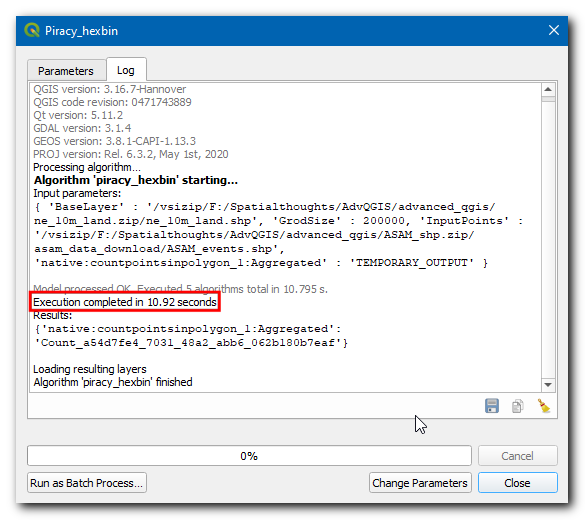
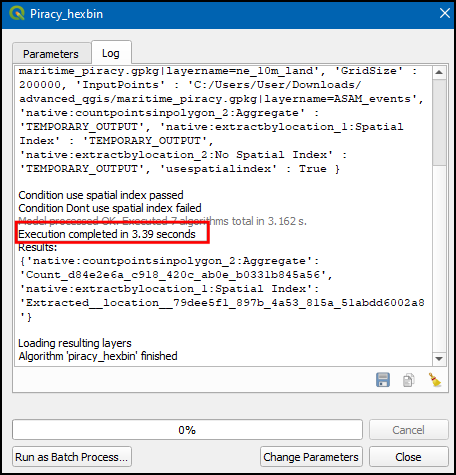
fix typos

diff --git a/docs/advanced-qgis.html b/docs/advanced-qgis.html
@@ -690,40 +690,42 @@ $(document).ready(function () {
 <p><a href="https://docs.google.com/presentation/d/1K1lR1JfonxGbmj8rCIVln_WkbWv6-tOYTYHAEJKAiw4/edit?usp=sharing" target="_blank"><img src="images/advanced_qgis/spatial_indexing.png" width="400" alt="View Presentation" /></a></p>
 <p><a href="https://docs.google.com/presentation/d/1K1lR1JfonxGbmj8rCIVln_WkbWv6-tOYTYHAEJKAiw4/edit?usp=sharing" target="_blank">View the Presentation</a></p>
 <p>QGIS has built-in tools to create and use spatial indexes. Let’s see how we can create a spatial index for a layer and use it in our model.</p>
-<p>1.Double click on the <code>piracy_hexbin</code> model from <em>Processing Toolbox</em>, select <strong>ne_10m_land</strong> as <em>Base Layer</em>, <strong>200000</strong> as <em>Grid size</em> and <strong>ASAM_events</strong> as <em>Inputs Points</em>. Click Run.</p>
-<p><img src="images/advanced_qgis/index1.png" width="75%" style="display: block; margin: auto;" /></p>
-<ol start="2" style="list-style-type: decimal">
-<li>Switch to <em>Log</em>, and note down the execution time of the model. In this instance we got <em>48.504s</em> (The exact time will vary depending on your computer configuration). Also note that it prompts a warning <em>No spatial index exists for input layer, performance will be severely degraded</em>.</li>
+<ol style="list-style-type: decimal">
+<li>Double click on the <code>piracy_hexbin</code> model from <em>Processing Toolbox</em>, select <strong>ne_10m_land</strong> as <em>Base Layer</em>, <strong>200000</strong> as <em>Grid size</em> and <strong>ASAM_events</strong> as <em>Inputs Points</em>. Click Run.</li>
 </ol>
-<p><img src="images/advanced_qgis/index2.png" width="75%" style="display: block; margin: auto;" /></p>
+<p><img src="images/advanced_qgis/index01.png" width="75%" style="display: block; margin: auto;" /></p>
+<ol start="2" style="list-style-type: decimal">
+<li>Switch to <em>Log</em>, and note down the execution time of the model. In this instance we got <em>34.80 seconds</em> (The exact time will vary depending on your computer configuration). Also note that it prompts a warning <em>No spatial index exists for input layer, performance will be severely degraded</em>.</li>
+</ol>
+<p><img src="images/advanced_qgis/index02.png" width="75%" style="display: block; margin: auto;" /></p>
 <ol start="3" style="list-style-type: decimal">
 <li>To create spatial index right-click the <strong>Aggregated</strong> layer and select <em>Properties</em>.</li>
 </ol>
-<p><img src="images/advanced_qgis/index3.png" width="75%" style="display: block; margin: auto;" /></p>
+<p><img src="images/advanced_qgis/index03.png" width="75%" style="display: block; margin: auto;" /></p>
 <ol start="4" style="list-style-type: decimal">
-<li>In the <em>Properties</em> dialog, switch to the <em>Source</em> tab. You will see the <em>Create Spatial Index</em> button. This button indicates that this layer does not currently have a spatial index. Click that button to create a spatial index. But we will use a better and more scalable way. Close the <em>Properties</em> dialog.</li>
+<li>In the <em>Layer Properties</em> dialog, switch to the <em>Source</em> tab. You will see the <em>Create Spatial Index</em> button. This button indicates that this layer does not currently have a spatial index. Click that button to create a spatial index. But we will use a better and more scalable way. Click <strong>OK</strong> and close the <em>Layer Properties</em> dialog.</li>
 </ol>
-<p><img src="images/advanced_qgis/index4.png" width="75%" style="display: block; margin: auto;" /></p>
+<p><img src="images/advanced_qgis/index04.png" width="75%" style="display: block; margin: auto;" /></p>
 <ol start="5" style="list-style-type: decimal">
 <li>Go to <strong>Processing → Toolbox</strong>. Search for the algorithm <strong>Vector general → Create spatial index</strong> and double-click to launch it.</li>
 </ol>
-<p><img src="images/advanced_qgis/index5.png" width="75%" style="display: block; margin: auto;" /></p>
+<p><img src="images/advanced_qgis/index05.png" width="75%" style="display: block; margin: auto;" /></p>
 <ol start="6" style="list-style-type: decimal">
 <li>Select <strong>Aggregated</strong> layer as the <em>Input layer</em> and click <em>Run</em>.</li>
 </ol>
-<p><img src="images/advanced_qgis/index6.png" width="75%" style="display: block; margin: auto;" /></p>
+<p><img src="images/advanced_qgis/index06.png" width="75%" style="display: block; margin: auto;" /></p>
 <ol start="7" style="list-style-type: decimal">
 <li>Creating a spatial index is usually a fast operation. Once the algorithm finishes, right-click on the <strong>Aggregated</strong> layer and select <em>Properties</em>. Switch to the <em>Source</em> tab and you will see that the button has now changed to <em>Spatial Index Exists</em> - indicating that the layer now has a spatial index.</li>
 </ol>
-<p><img src="images/advanced_qgis/index7.png" width="75%" style="display: block; margin: auto;" /></p>
+<p><img src="images/advanced_qgis/index07.png" width="75%" style="display: block; margin: auto;" /></p>
 <ol start="8" style="list-style-type: decimal">
 <li>While creating a spatial index on a layer like this is useful, it is even more powerful to have the spatial index created during the execution of our model. We will see how to add the spatial index creation step in our model. Right-click the <code>piracy_hexbin</code> model and select <em>Edit Model…</em>. Search <strong>Create spatial index</strong> in <em>Algorithms</em> tab and drag it to the model canvas.</li>
 </ol>
-<p><img src="images/advanced_qgis/index8.png" width="75%" style="display: block; margin: auto;" /></p>
+<p><img src="images/advanced_qgis/index08.png" width="75%" style="display: block; margin: auto;" /></p>
 <ol start="9" style="list-style-type: decimal">
 <li>Choose <strong>Algorithm output</strong> from the button below <em>Input Layer</em>, and select <strong>“Grid” from algorithm “Create Grid”.</strong> Click OK.</li>
 </ol>
-<p><img src="images/advanced_qgis/index9.png" width="75%" style="display: block; margin: auto;" /></p>
+<p><img src="images/advanced_qgis/index09.png" width="75%" style="display: block; margin: auto;" /></p>
 <ol start="10" style="list-style-type: decimal">
 <li>You will see that the newly added <code>Create spatial index</code> algorithm is connected to the <code>Create grid</code> algorithm. But the workflow should be, <strong>Create grid → Create spatial index → Extract from location</strong>.</li>
 </ol>
@@ -745,7 +747,7 @@ $(document).ready(function () {
 </ol>
 <p><img src="images/advanced_qgis/index14.png" width="75%" style="display: block; margin: auto;" /></p>
 <ol start="15" style="list-style-type: decimal">
-<li>In this instance we got <em>15.207 s</em> (The exact time will vary depending on your computer configuration). Also, note that it has executed 5 algorithms which is including creating the spatial index.</li>
+<li>In this instance we got <em>3.39 seconds</em> (The exact time will vary depending on your computer configuration). Also, note that it has executed 5 algorithms which is including creating the spatial index.</li>
 </ol>
 <p><img src="images/advanced_qgis/index15.png" width="75%" style="display: block; margin: auto;" /></p>
 </div>
